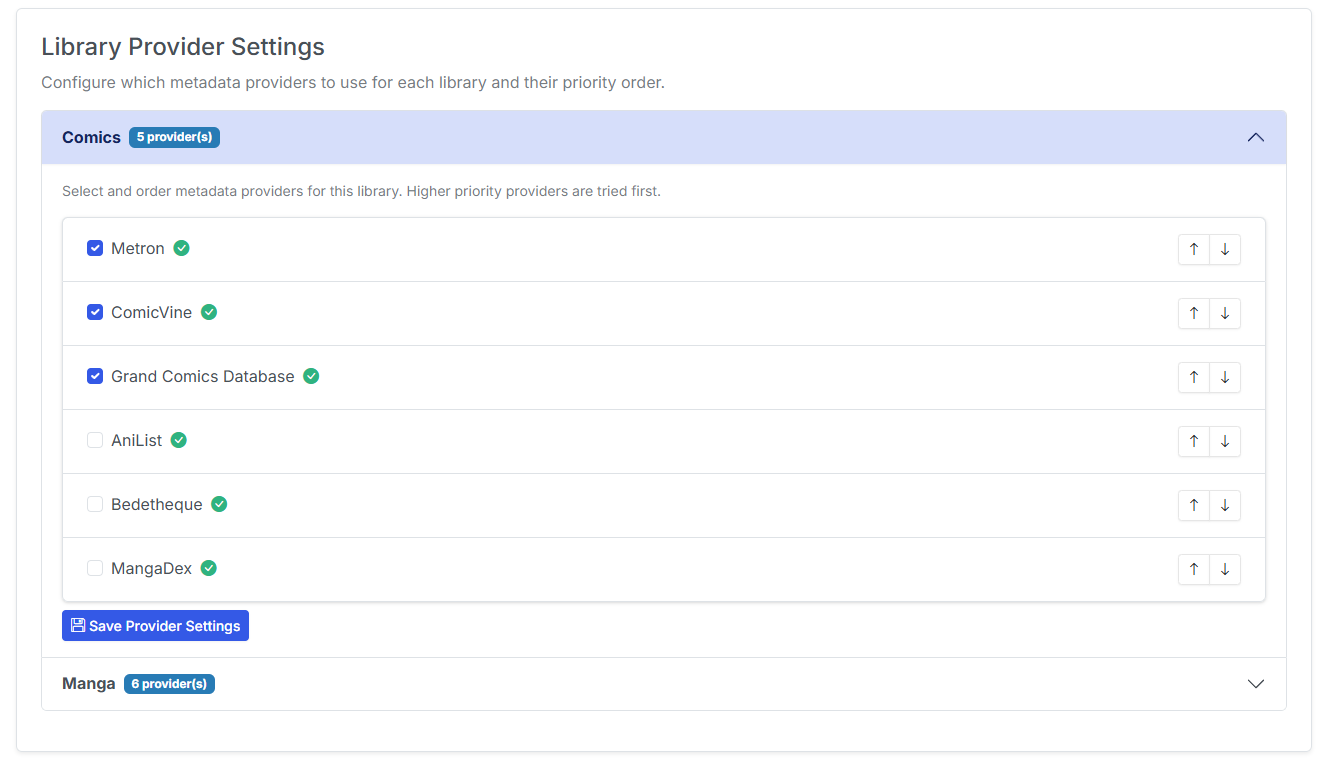
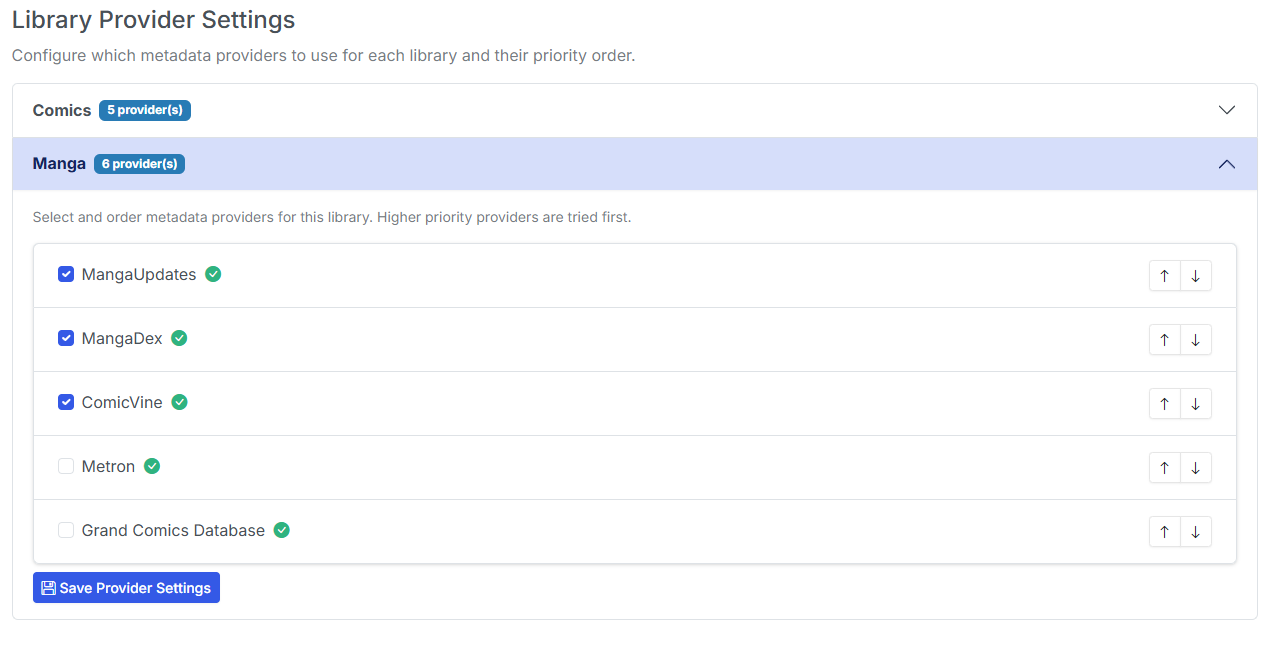
Update Manga Providers in Settings

diff --git a/docs/features/app-settings/metadata.md b/docs/features/app-settings/metadata.md
@@ -27,9 +27,9 @@ Metadata providers and implementations status are listed below:
 | [Metron](https://metron.cloud) | <i class="bi bi-check-circle-fill text-success"></i> | Metron Comic Book Database |
 | [ComicVine](https://comicvine.gamespot.com/) | <i class="bi bi-check-circle-fill text-success"></i> | ComicVine Database |
 | [GCD](https://www.comics.org/) | <i class="bi bi-info-circle-fill text-info"></i> | Grand Comics Database (requires [local setup](../gcd-settings/index.md)) |
-| AniList | <i class="bi bi-info-circle-fill text-warning"></i> | AniList Database (FUTURE IMPLEMENTATION) |
-| Bedetheque | <i class="bi bi-info-circle-fill text-warning"></i> | Bedetheque Database (FUTURE IMPLEMENTATION) |
-| MangaUpdates | <i class="bi bi-info-circle-fill text-warning"></i> | MangaUpdates Database (FUTURE IMPLEMENTATION) |
+| MangaDex | <i class="bi bi-check-circle-fill text-success"></i> | MangaDex Database |
+| MangaUpdates | <i class="bi bi-check-circle-fill text-success"></i> | MangaUpdates Database
+| Bedetheque | <i class="bi bi-info-circle-fill text-warning"></i> | Bedetheque Database (Future Implementation) | |
 
 
 ## Assign Metadata Providers to Libraries
